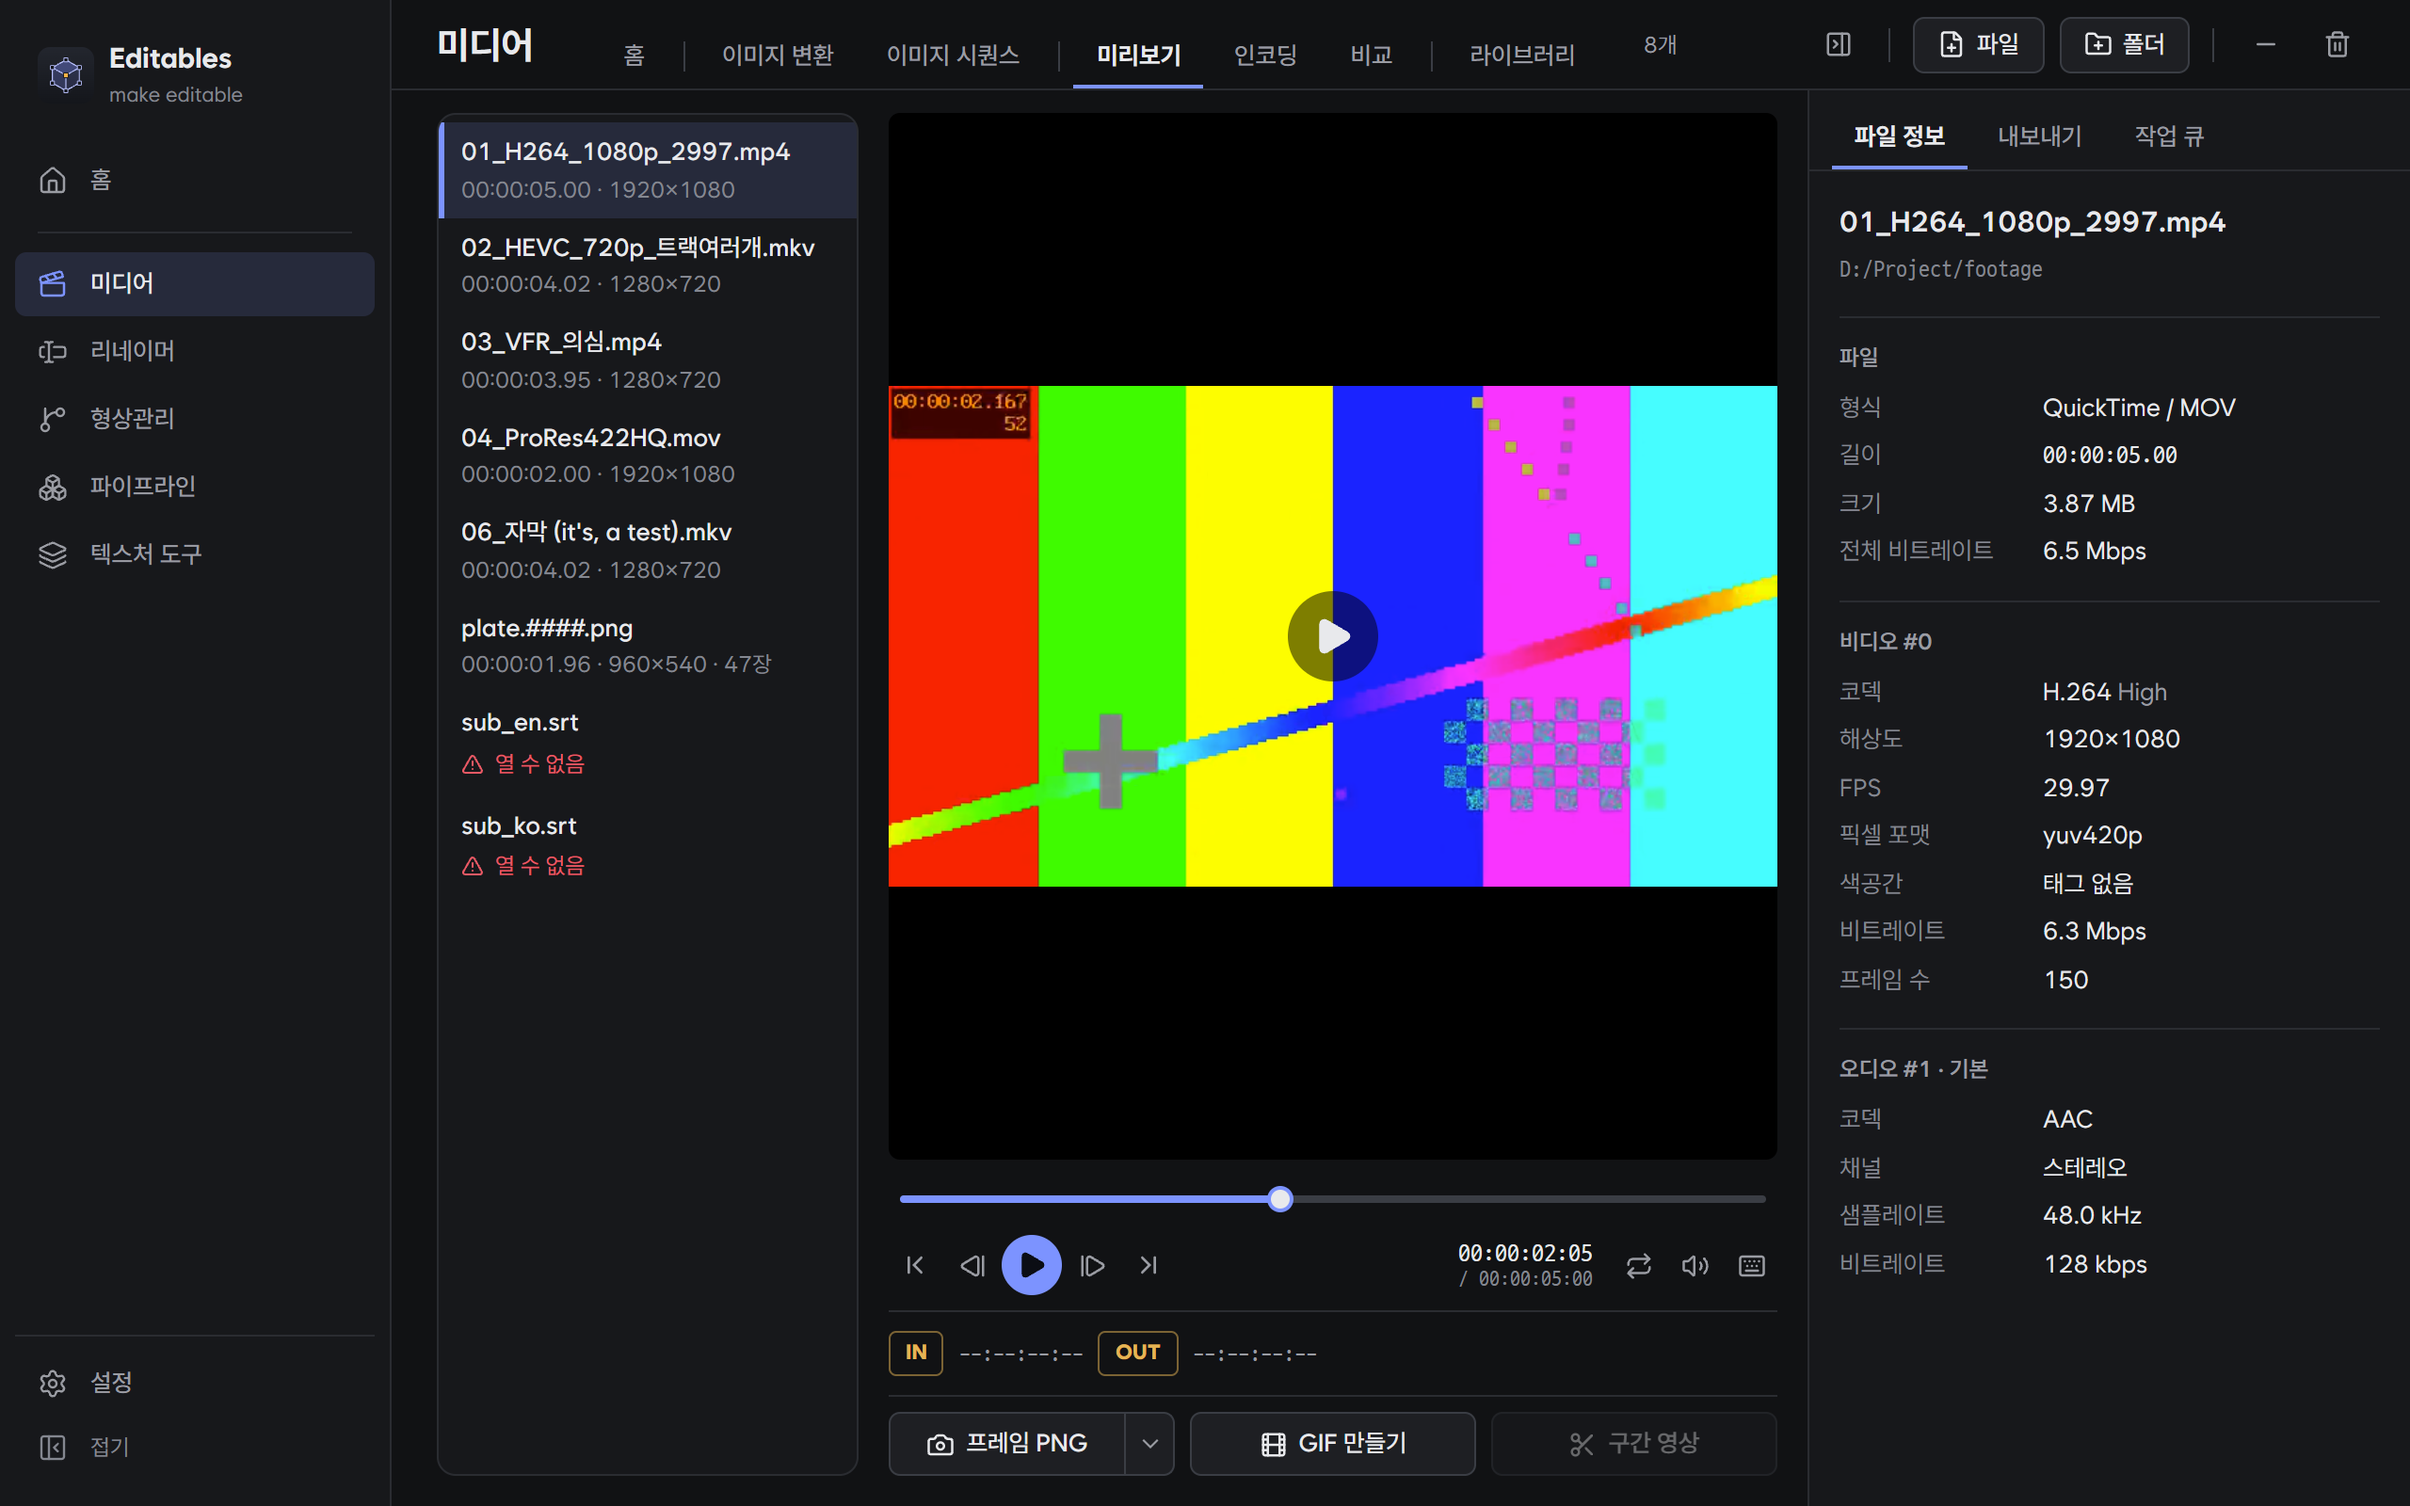
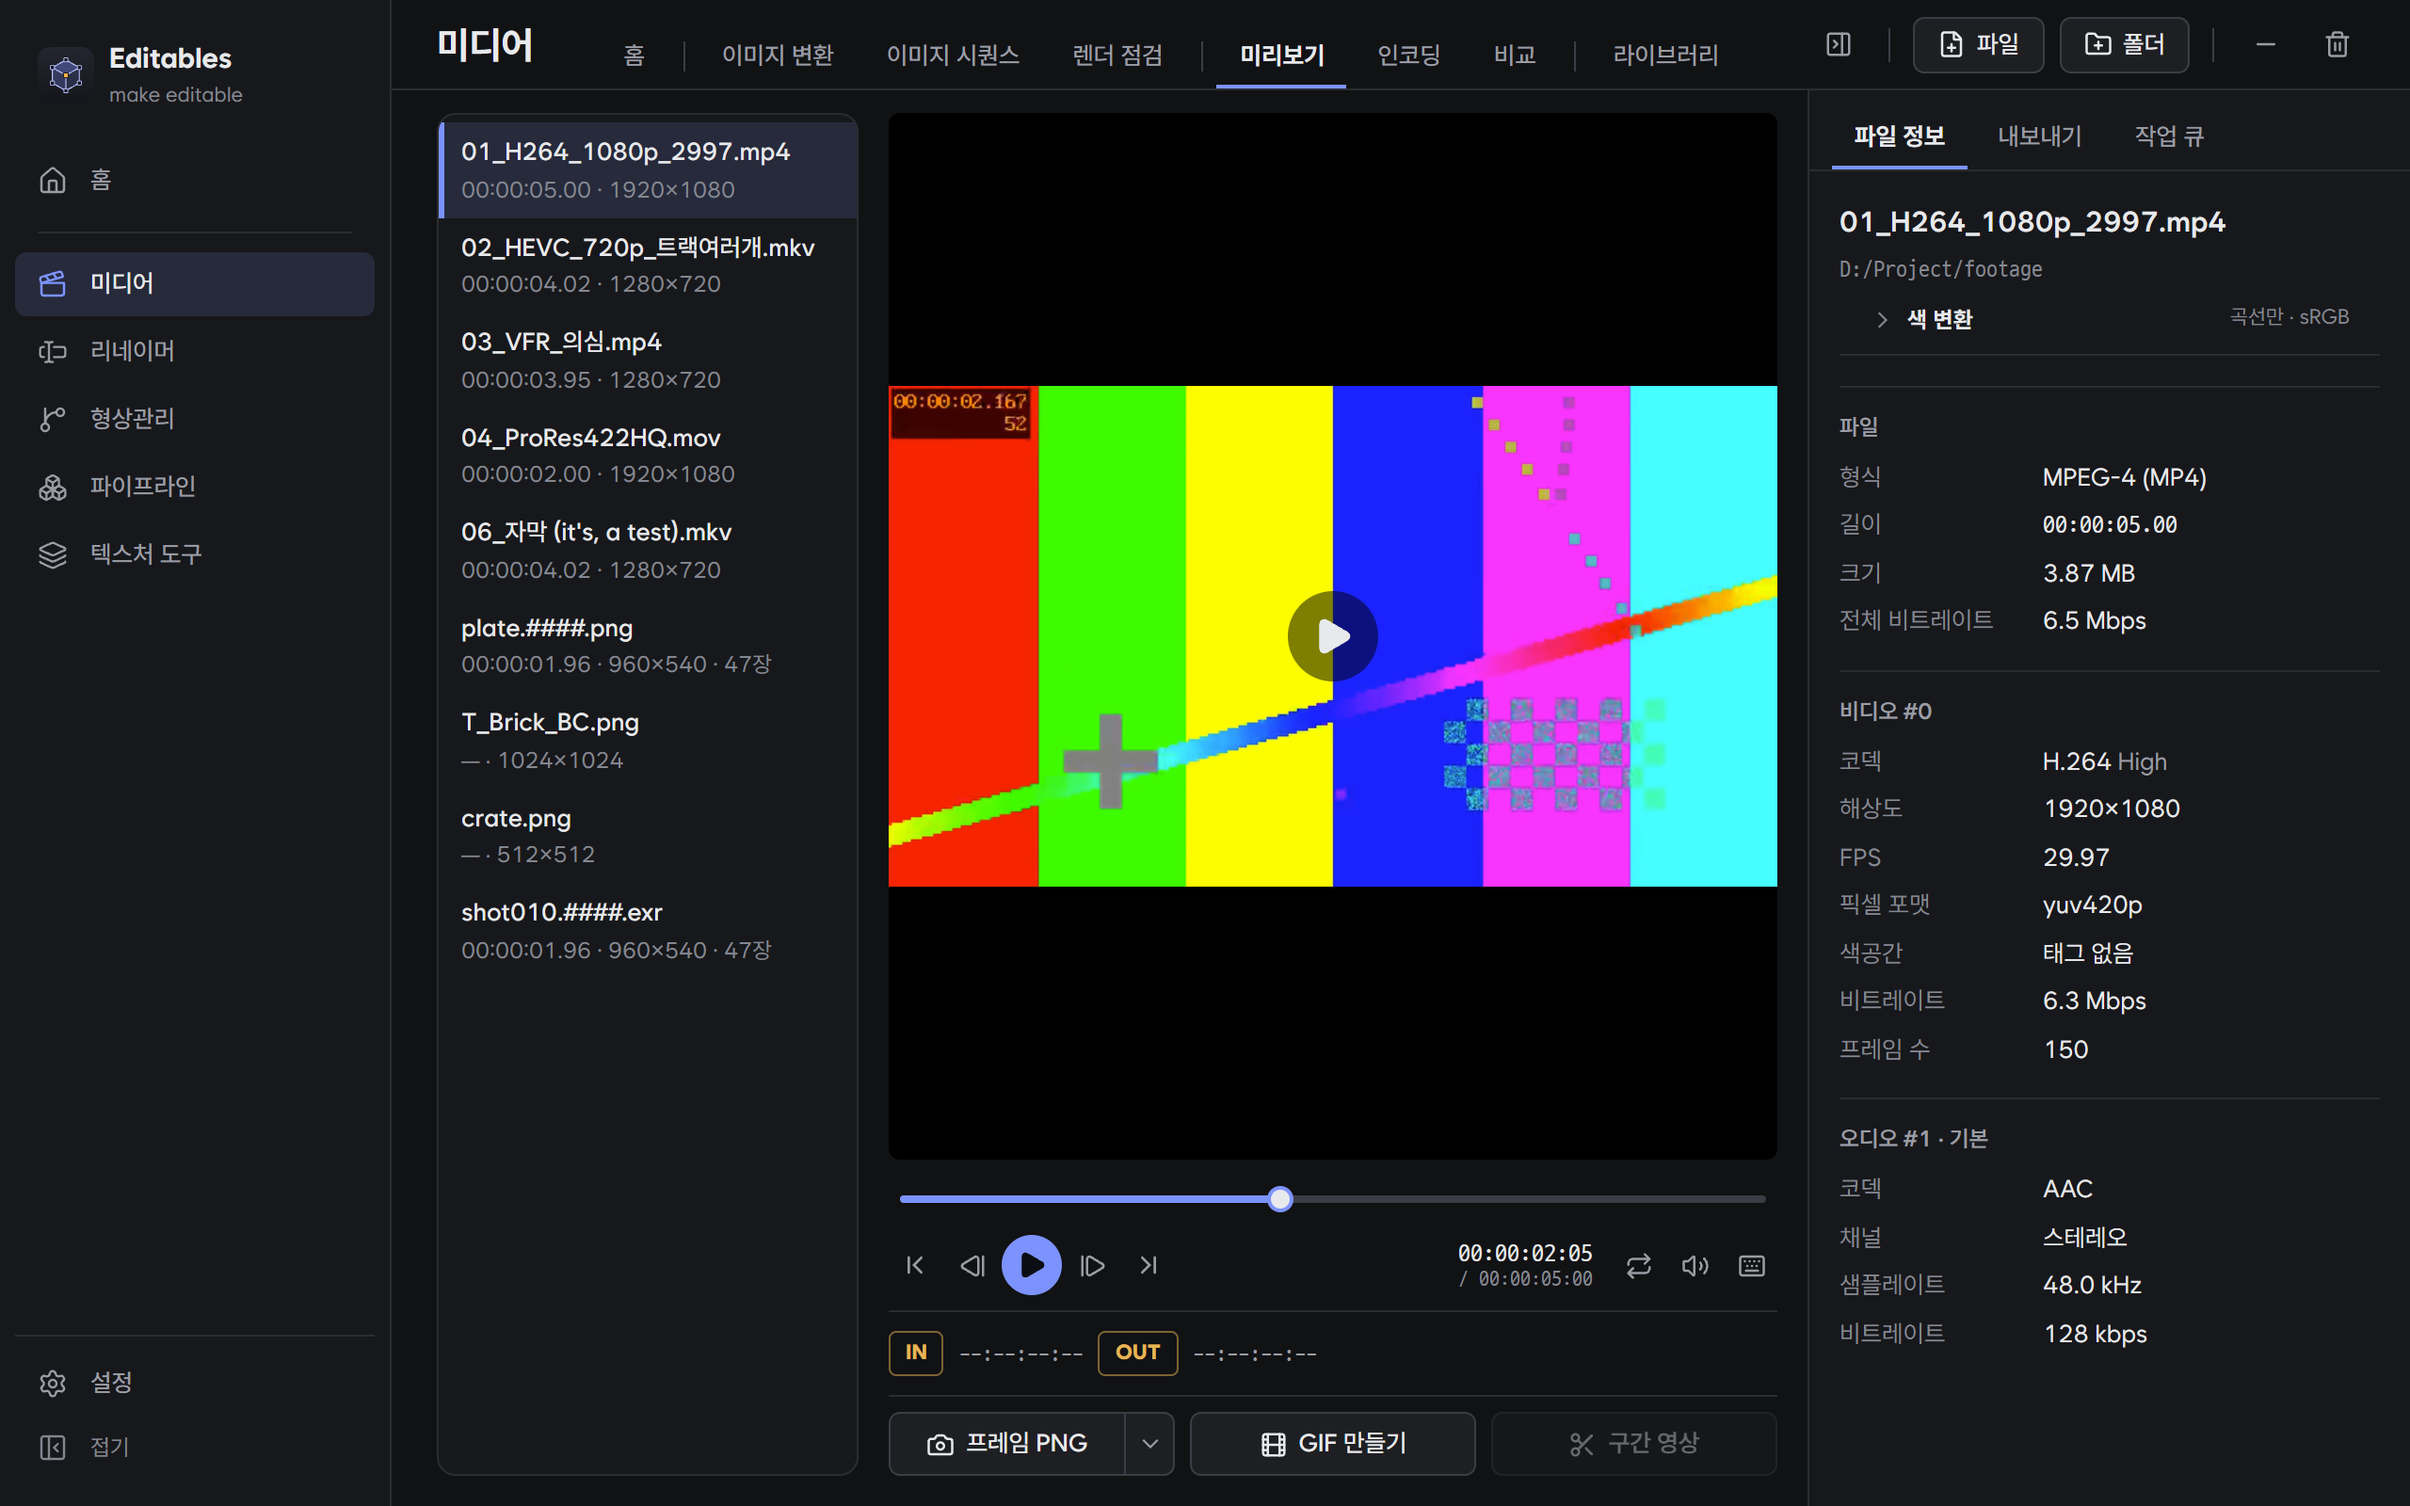
README: 0.1.4 기능(렌더 점검 · 색 변환 · 커밋 전 검사) · 스크린샷 갱신 · 문장 다듬기

diff --git a/README.md b/README.md
@@ -32,13 +32,14 @@ Windows · macOS(Apple Silicon)용이고, 무료로 쓸 수 있습니다.
 </tr>
 </table>
 
-- **미리보기**: 영상을 프레임 단위로 넘겨 보며 구간을 지정하고, 지금 화면을 PNG로 저장하거나 구간을 GIF · 영상으로 잘라 냅니다.
-- **인코딩**: 여러 영상을 한 번에 MP4 · MOV · MKV · WebM · GIF로 변환합니다. 리뷰용 · 웹용 · 편집용 같은 프리셋을 고르기만 하면 되고, 오디오 · 자막 트랙도 골라 넣거나 자막을 영상에 입힐 수 있습니다.
-- **이미지 시퀀스**: 영상을 PNG · JPG · TIFF · EXR 프레임으로 풀거나, 프레임 묶음을 영상으로 만듭니다. 빠진 프레임이 있으면 알려 줍니다.
-- **이미지 변환**: 여러 이미지를 PNG · JPG · WebP · TIFF · AVIF 등으로 한 번에 바꾸고 크기 · 품질을 정합니다. 프레임 묶음은 움직이는 WebP 한 장으로도 만들 수 있습니다.
-- **비교**: 여러 영상을 격자(최대 9칸)나 A/B 분할로 나란히 동시에 재생하고, 비교 화면을 영상 · 이미지로 저장합니다. 칸마다 파일 이름 · 타임코드(시간 · 프레임) · FPS를 원하는 위치에 표시합니다.
-- **HDR 영상**: HDR(PQ · HLG) 영상은 SDR로 바꿔 미리보기 · 변환 · 비교하므로 물빠진 색으로 보이지 않습니다.
-- **라이브러리**: 지금까지 변환한 기록을 날짜별로 보고, 결과 폴더를 열거나 같은 설정으로 다시 변환합니다.
+- 미리보기: 영상을 프레임 단위로 넘겨 보며 구간을 지정하고, 지금 화면을 PNG로 저장하거나 구간을 GIF · 영상으로 잘라 냅니다.
+- 인코딩: 여러 영상을 한 번에 MP4 · MOV · MKV · WebM · GIF로 변환합니다. 리뷰용 · 웹용 · 편집용 프리셋이 있고, 오디오 · 자막 트랙을 골라 넣거나 자막을 영상에 입힐 수 있습니다.
+- 이미지 시퀀스: 영상을 PNG · JPG · TIFF · EXR 프레임으로 풀거나, 프레임 묶음을 영상으로 만듭니다.
+- 렌더 점검: 렌더 폴더를 놓으면 하위 폴더의 시퀀스마다 빠진 프레임 · 빈 파일 · 열 수 없는 파일 · 해상도가 다른 프레임을 찾습니다. 문제 프레임 번호를 글로 복사해 렌더팜에 다시 요청하고, 필요한 시퀀스만 리뷰 영상으로 만듭니다.
+- 이미지 변환: 여러 이미지를 PNG · JPG · WebP · TIFF · AVIF · EXR 등으로 한 번에 바꾸고 크기 · 품질을 정합니다. 프레임 묶음은 움직이는 WebP 한 장으로도 만듭니다.
+- 비교: 영상을 격자(최대 9칸)나 A/B 분할로 나란히 동시에 재생하고, 비교 화면을 영상 · 이미지로 저장합니다. 칸마다 파일 이름 · 타임코드(시간 · 프레임) · FPS를 표시합니다.
+- 색 변환: 리니어 EXR · ACEScct 원본을 ACES 1.2 · 1.3 · 2.0 출력 변환으로 보고 변환합니다. 노출 조절과 범위 밖 색 표시가 있고, 같은 설정을 UE5 OpenColorIO용 OCIO 설정으로 내보냅니다. HDR(PQ · HLG) 영상은 SDR로 바꿔 보여 줍니다.
+- 라이브러리: 변환 기록을 날짜별로 보고, 결과 폴더를 열거나 같은 설정으로 다시 변환합니다.
 
 <table>
 <tr>
@@ -48,6 +49,14 @@ Windows · macOS(Apple Silicon)용이고, 무료로 쓸 수 있습니다.
 <tr>
 <td align="center">인코딩</td>
 <td align="center">이미지 변환</td>
+</tr>
+<tr>
+<td width="50%"><img src="docs/screenshots/media-check.png" alt="렌더 점검"></td>
+<td width="50%"><img src="docs/screenshots/media-library.png" alt="라이브러리"></td>
+</tr>
+<tr>
+<td align="center">렌더 점검</td>
+<td align="center">라이브러리</td>
 </tr>
 </table>
 
@@ -67,14 +76,14 @@ Windows · macOS(Apple Silicon)용이고, 무료로 쓸 수 있습니다.
 </table>
 
 - 글자 찾아 바꾸기 · 앞뒤에 붙이기 · 번호 매기기 · 대소문자 · 확장자 · 공백과 특수문자 정리
-- **UE5 네이밍**: 파일 종류에 맞춰 `T_` · `SM_` · `A_` 접두사와 `_D` · `_N` · `_ORM` 같은 텍스처 접미사를 붙입니다.
-- **시퀀스 재번호**: 프레임 번호를 0001부터 다시 매깁니다.
-- **이름 표(CSV)**: 원래 이름과 새 이름을 엑셀로 정리한 표대로 바꿉니다.
-- 원본은 그대로 두고 새 이름으로 **사본 만들기**도 할 수 있습니다.
+- UE5 네이밍: 파일 종류에 맞춰 `T_` · `SM_` · `A_` 접두사와 `_D` · `_N` · `_ORM` 같은 텍스처 접미사를 붙입니다.
+- 시퀀스 재번호: 프레임 번호를 0001부터 다시 매깁니다.
+- 이름 표(CSV): 원래 이름과 새 이름을 엑셀로 정리한 표대로 바꿉니다.
+- 사본 만들기: 원본은 그대로 두고 새 이름으로 복사합니다.
 
 ### 형상관리 (SVN)
 
-팀 저장소의 파일을 받고, 올리고, 잠급니다. Windows는 svn이 함께 설치되어 따로 준비할 것이 없습니다.
+팀 저장소의 파일을 받고, 올리고, 잠급니다. Windows에는 svn이 함께 설치됩니다.
 
 <table>
 <tr>
@@ -87,15 +96,16 @@ Windows · macOS(Apple Silicon)용이고, 무료로 쓸 수 있습니다.
 </tr>
 </table>
 
-- **작업 사본**: 바뀐 파일 확인 · 커밋 · 업데이트 · 잠금 · 되돌리기 · 충돌 해결. 파일마다 바뀐 내용(텍스트 · 이미지)을 보거나 이전 버전을 받을 수 있습니다.
-- **잠금 현황**: 저장소 전체에서 누가 어떤 파일을 잠갔는지 보고, 오래된 잠금을 정리합니다.
-- **잠금 필수**: UE5 에셋(.uasset · .umap)은 잠근 사람만 수정할 수 있게 해, 두 사람이 같은 에셋을 동시에 고치는 일을 막습니다.
-- **프로젝트 셋업**: 새 프로젝트를 받으면서 UE5에 맞는 무시 목록과 잠금 필수 설정까지 한 번에 끝냅니다.
+- 작업 사본: 바뀐 파일 확인 · 커밋 · 업데이트 · 잠금 · 되돌리기 · 충돌 해결. 파일마다 바뀐 내용(텍스트 · 이미지)을 보거나 이전 버전을 받습니다.
+- 잠금 현황: 저장소 전체에서 누가 어떤 파일을 잠갔는지 보고, 오래된 잠금을 정리합니다.
+- 잠금 필수: UE5 에셋(.uasset · .umap)은 잠근 사람만 수정할 수 있어, 두 사람이 같은 에셋을 동시에 고치지 않습니다.
+- 커밋 전 검사: 쓸 수 없는 이름 · 너무 긴 경로 · 큰 파일을 커밋 전에 알립니다. UE5 프로젝트는 Saved 같은 캐시 폴더, 잠그지 않고 고친 에셋, 맞지 않는 접두사도 잡습니다.
+- 프로젝트 셋업: 새 프로젝트를 받으면서 UE5용 무시 목록과 잠금 필수 설정을 같이 합니다.
 
 
 ### 텍스처 도구
 
-베이스 컬러(또는 하이트) 이미지 한 장으로 PBR 맵을 만듭니다.
+Base Color(또는 Height) 이미지 한 장으로 PBR 맵을 만듭니다.
 
 <table>
 <tr>
@@ -108,9 +118,9 @@ Windows · macOS(Apple Silicon)용이고, 무료로 쓸 수 있습니다.
 </tr>
 </table>
 
-- 노멀 · 하이트 · 러프니스 · AO · ORM 맵을 만들고, 구 · 큐브 · 평면에 입혀 바로 확인합니다.
-- **심리스**: 이어 붙여도 이음매가 보이지 않는 타일 텍스처로 만듭니다.
-- **채널 패킹**: 여러 이미지의 채널을 골라 한 장으로 합칩니다.
+- Normal · Height · Roughness · AO · ORM 맵을 만들고, 구 · 큐브 · 평면에 입혀 확인합니다.
+- 심리스: 이어 붙여도 이음매가 보이지 않는 타일 텍스처로 만듭니다.
+- 채널 패킹: 여러 이미지의 채널을 골라 한 장으로 합칩니다.
 - 언리얼 이름 규칙(`T_이름_N`)으로 PNG · TGA · TIFF를 저장합니다.
 
 
@@ -127,15 +137,15 @@ Windows · macOS(Apple Silicon)용이고, 무료로 쓸 수 있습니다.
 </tr>
 </table>
 
-- **3D 뷰어**: FBX · OBJ · glTF · STL 모델을 열어 실제 크기 · 폴리곤 수 · 재질 · UV를 확인합니다.
+- 3D 뷰어: FBX · OBJ · glTF · STL 모델을 열어 실제 크기 · 폴리곤 수 · 재질 · UV를 확인합니다.
 - Cinema 4D 익스포트와 UE5 자동 임포트는 준비 중입니다.
 
 ### 그 밖에
 
 - 자주 쓰는 설정은 프리셋으로 저장하고, 파일이나 팀 공유 폴더로 팀원과 함께 씁니다.
-- 터미널 · 자동화 스크립트에서 쓰는 명령줄 도구(`editables-cli`)가 함께 설치됩니다.
-- 긴 작업(변환 · 비교 · 텍스처 내보내기)이 끝나면 창이 뒤에 있어도 OS 알림으로 알려 줍니다.
-- **설정 → 앱 정보 → 문제 보고**에서 의견 · 오류를 바로 보낼 수 있습니다. 진단 정보를 함께 보내면 원인을 찾기 쉽습니다.
+- 터미널 · 자동화 스크립트 · AI 에이전트에서 쓰는 명령줄 도구(`editables-cli`)가 함께 설치됩니다.
+- 긴 작업(변환 · 비교 · 텍스처 내보내기)이 끝났을 때 창이 뒤에 있으면 OS 알림을 띄웁니다.
+- **설정 → 앱 정보 → 문제 보고**에서 의견 · 오류를 보냅니다. 진단 정보를 같이 보내면 원인을 찾기 쉽습니다.
 
 ## 설치
 
